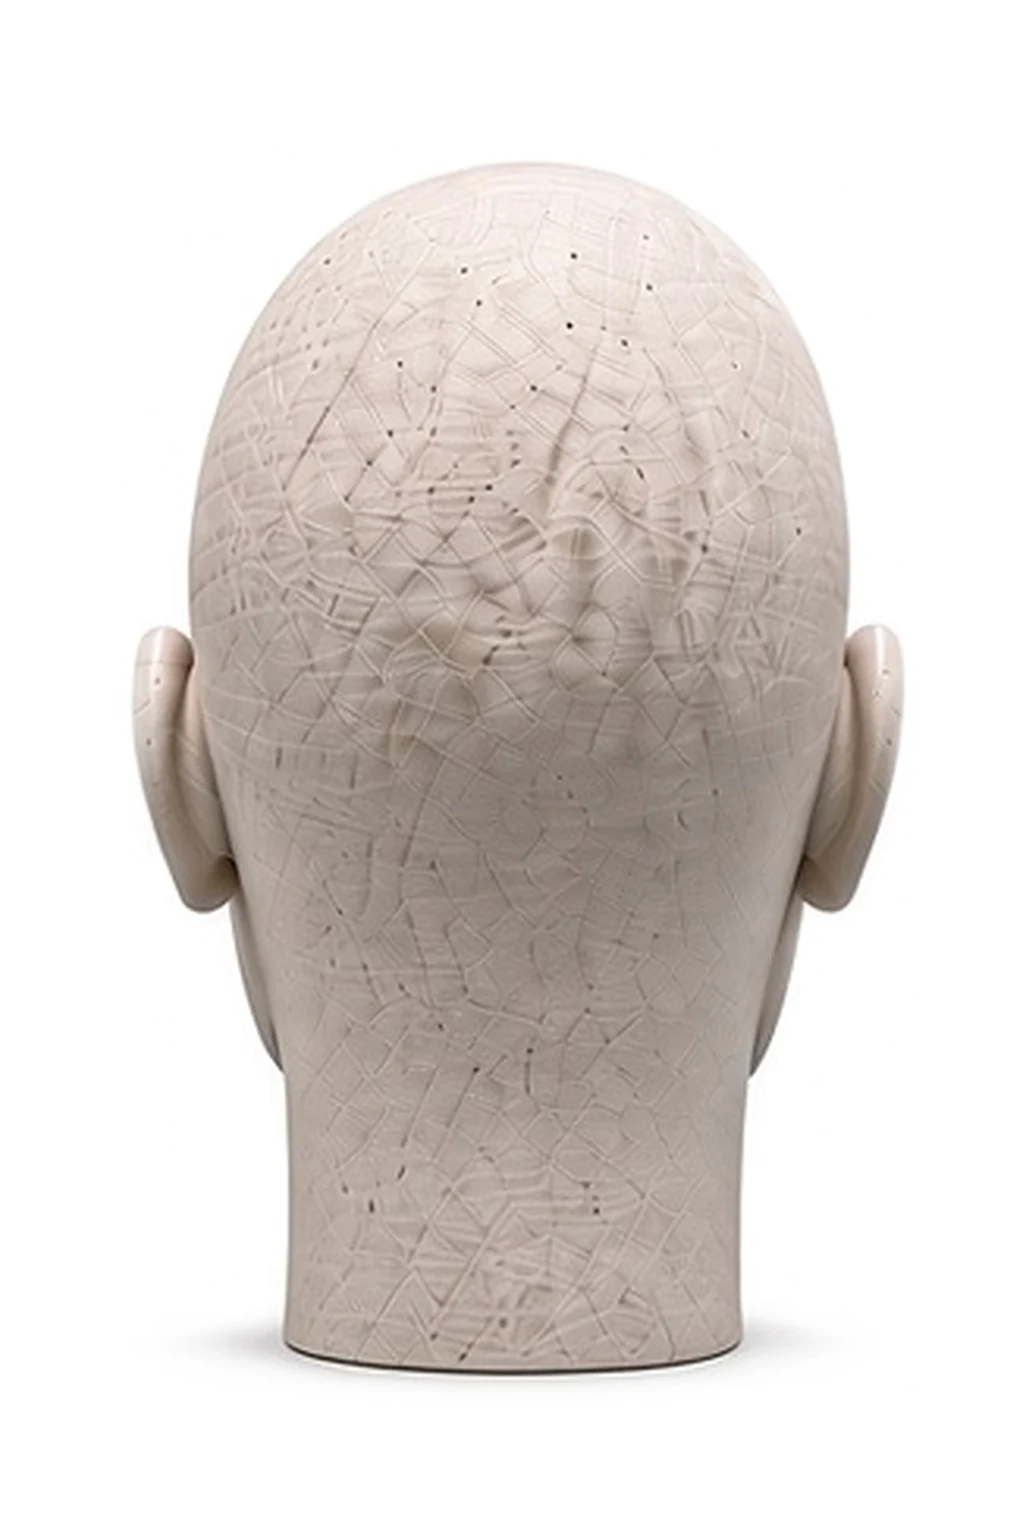
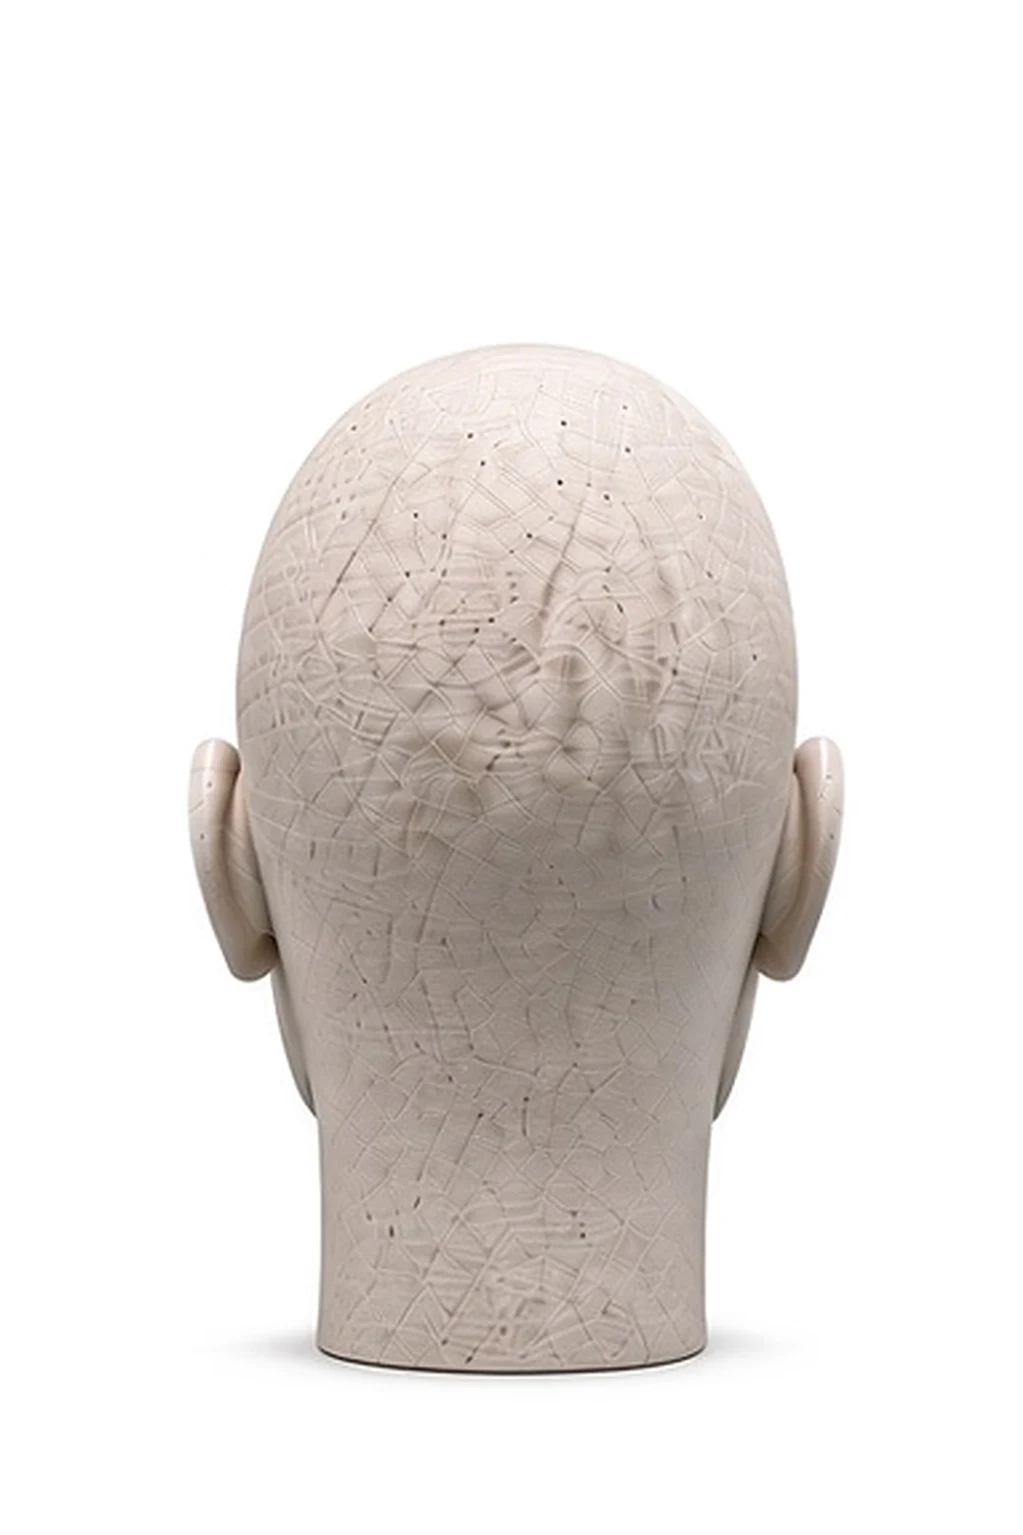
Model 5 (starter-exact-27): bust 15% smaller; front/back/thumb rebuilt; assetRev 5c527e797adc

diff --git a/js/app.js b/js/app.js
@@ -10,7 +10,7 @@ import { renderSpin } from './spin-view.js';
 import { initUpdates } from './update.js';
 
 // VERSION is stamped automatically by the pre-commit hook (.githooks/pre-commit). Do not edit by hand.
-export const VERSION = '2026.10.30-024409-0a93637';
+export const VERSION = '2026.10.30-032527-5be69b6';
 
 const TITLES = { looks: 'Lookbook', 'import-looks': 'Import mockups', styles: 'Catalog', style: 'Style', 'style-edit': 'Style', models: 'Model Library', model: 'Model', 'import-model': 'Import model', studio: 'Prompt builder', spin: '360 spin', settings: 'Settings' };
 const TAB_OF = { looks: 'looks', 'import-looks': 'looks', styles: 'styles', style: 'styles', 'style-edit': 'styles', models: 'models', model: 'models', 'import-model': 'models', studio: 'models', spin: 'spin', settings: 'settings' };

diff --git a/js/starters.js b/js/starters.js
@@ -68,7 +68,7 @@ export const STARTERS = [
   {
     // added 2026-10-29 (Jordan): Model 5, a ceramic head bust from Jordan's 6-view sheet (360 frames: real views + mirrors, one AI back-3/4); Base only, no outfits.
     // A bust has no height / size / measurements, so none are set. Existing installs gain it once.
-    id: 'starter-exact-27', name: 'Model 5', file: 'exact-27', assetRev: '2c9a5ad6a74d',
+    id: 'starter-exact-27', name: 'Model 5', file: 'exact-27', assetRev: '5c527e797adc',
     note: 'Cream crackle-glaze ceramic head bust',
   },
 ];

diff --git a/sw.js b/sw.js
@@ -3,7 +3,7 @@
 // offline fallback) so a new deploy is never served stale; big images/fonts are cache-first. Cross-origin requests
 // (only the optional BYOK APIs) are never touched. skipWaiting + clients.claim, so a new version takes over at once;
 // js/update.js then reloads the page when it's safe.
-const VERSION = '2026.10.30-024409-0a93637';
+const VERSION = '2026.10.30-032527-5be69b6';
 const CACHE = `avata-${VERSION}`;
 const SHELL = [
   './', 'index.html', 'styles.css', 'manifest.webmanifest',

diff --git a/README.md b/README.md
@@ -134,3 +134,5 @@ Starter re-sync e2e: `python3 tools/e2e_starters.py` (installs the previous rele
 **Model 1 USA jersey (2026-10-29, Jordan):** `starter-exact-26` (Model 1) gains USA jersey (`exact-26-usa-jersey`, Model 2's USA home kit generated on her own base sheet, barefoot) appended after Outfit 12: Base, Outfit 1-12, USA jersey; assetRev fdd410de3bce -> ae4f82db8991, so installs refresh her in place (names, edits and drag order kept; the new outfit goes at the end of a saved order); precached in `sw.js`.
 
 **Model 5 ceramic head (2026-10-29, Jordan):** new starter `starter-exact-27` (Model 5, a cream crackle-glaze ceramic head bust) after Model 4: Base only, no outfits; no height/size/measurements (a bust). Its 360 (gallery `exact-27`) has 8 frames: real sheet views at 0/180/270/315, mirrors at 45/90/225, and an AI-generated back-3/4 at 135. assetRev 2c9a5ad6a74d; existing installs gain it once; precached in `sw.js`. Gallery models may set `cardPos` (CSS object-position) so a bust's card shows the face; the 360 row and outfit chips honour it.
+
+**Model 5 smaller (2026-10-29, 11:23 PM, Jordan):** the ceramic head is 85% of its previous size in every frame (rebuilt from the sheet crops; neck base line and centre unchanged); front/back/thumb rebuilt to match. assetRev 2c9a5ad6a74d -> 5c527e797adc, so installs refresh it in place (name and edits kept).
